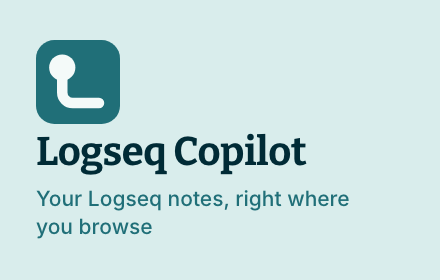
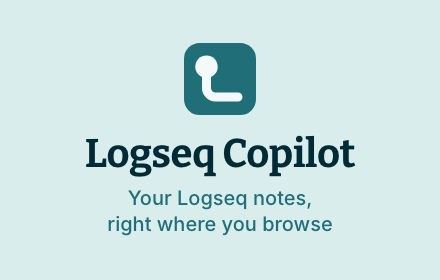
feat(store): centre the small promo tile A as one block

diff --git a/store/promo/small-a.html b/store/promo/small-a.html
@@ -3,13 +3,12 @@
 <link rel="stylesheet" href="common.css">
 <style>
   :root { --w: 440px; --h: 280px; }
-  body { padding: 40px 36px; display: flex; flex-direction: column; justify-content: space-between; }
-  .logo { width: 84px; height: 84px; }
-  .name { font-size: 40px; }
-  .tagline { font-size: 21px; line-height: 1.3; margin-top: 12px; max-width: 340px; }
+  /* Logo, name and tagline as one block in the middle of the tile. */
+  body { display: flex; flex-direction: column; align-items: center; justify-content: center; text-align: center; padding: 0 32px; }
+  .logo { width: 72px; height: 72px; }
+  .name { font-size: 40px; margin-top: 18px; }
+  .tagline { font-size: 20px; line-height: 1.3; margin-top: 10px; max-width: 300px; text-wrap: balance; }
 </style>
 <img class="logo" src="../../public/brand/thread.svg" alt="">
-<div>
-  <div class="name">Logseq Copilot</div>
-  <div class="tagline">Your Logseq notes, right where you browse</div>
-</div>
+<div class="name">Logseq Copilot</div>
+<div class="tagline">Your Logseq notes, right where you browse</div>
